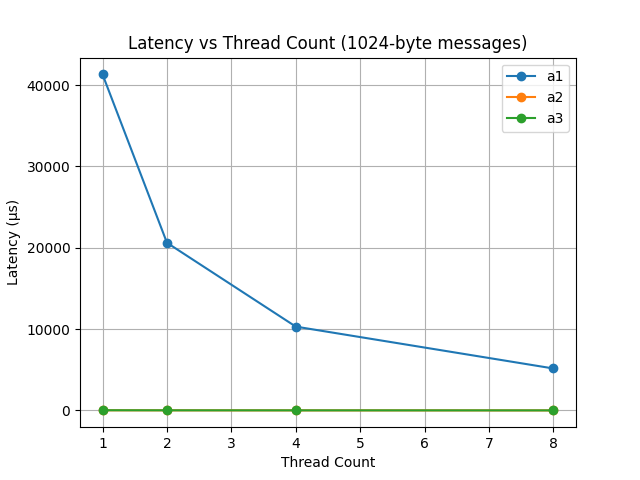
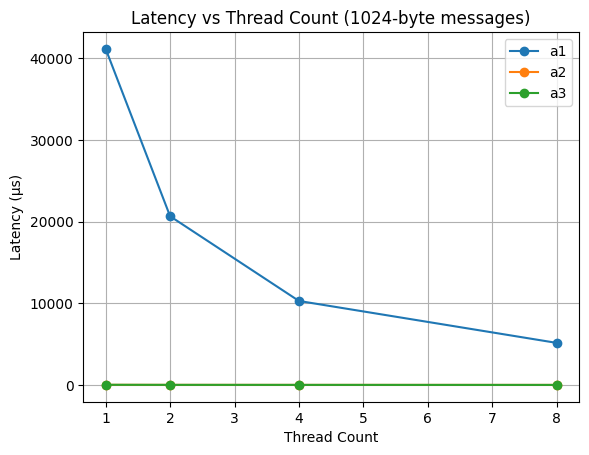
Final Plots

diff --git a/MT25035_Part_D_Plots.py b/MT25035_Part_D_Plots.py
@@ -1,5 +1,8 @@
 # MT25035_Part_D_Plots.py
 
+import matplotlib
+matplotlib.use("Agg")  # Non-interactive backend (no GUI)
+
 import pandas as pd
 import matplotlib.pyplot as plt
 
@@ -16,11 +19,18 @@ numeric_cols = [
 ]
 df[numeric_cols] = df[numeric_cols].apply(pd.to_numeric)
 
-# Bytes per message (8 fields)
+# -----------------------------
+# Derived metrics
+# -----------------------------
+# Message size = 8 fields
 df["bytes_per_msg"] = df["field_size"] * 8
-df["cycles_per_byte"] = df["cycles"] / (
-    df["throughput_gbps"] * 1e9 * 10 / 8
-)
+
+# Total bytes transferred = throughput * duration
+DURATION = 10  # seconds (same as experiment)
+df["bytes_transferred"] = (df["throughput_gbps"] * 1e9 / 8) * DURATION
+
+# Cycles per byte
+df["cycles_per_byte"] = df["cycles"] / df["bytes_transferred"]
 
 # -----------------------------
 # Plot 1: Throughput vs Message Size
@@ -36,8 +46,8 @@ plt.title("Throughput vs Message Size (8 threads)")
 plt.legend()
 plt.grid(True)
 plt.xscale("log")
-plt.savefig("throughput_vs_message_size.png")
-plt.show()
+plt.savefig("throughput_vs_message_size.png", bbox_inches="tight")
+plt.close()
 
 # -----------------------------
 # Plot 2: Latency vs Thread Count
@@ -52,8 +62,8 @@ plt.ylabel("Latency (µs)")
 plt.title("Latency vs Thread Count (1024-byte messages)")
 plt.legend()
 plt.grid(True)
-plt.savefig("latency_vs_threads.png")
-plt.show()
+plt.savefig("latency_vs_threads.png", bbox_inches="tight")
+plt.close()
 
 # -----------------------------
 # Plot 3: Cache Misses vs Message Size
@@ -70,11 +80,11 @@ plt.legend()
 plt.grid(True)
 plt.xscale("log")
 plt.yscale("log")
-plt.savefig("cache_misses_vs_message_size.png")
-plt.show()
+plt.savefig("cache_misses_vs_message_size.png", bbox_inches="tight")
+plt.close()
 
 # -----------------------------
-# Plot 4: CPU Cycles per Byte Transferred
+# Plot 4: CPU Cycles per Byte
 # -----------------------------
 plt.figure()
 for impl in ["a1", "a2", "a3"]:
@@ -87,5 +97,5 @@ plt.title("CPU Cycles per Byte vs Message Size (8 threads)")
 plt.legend()
 plt.grid(True)
 plt.xscale("log")
-plt.savefig("cycles_per_byte_vs_message_size.png")
-plt.show()
+plt.savefig("cycles_per_byte_vs_message_size.png", bbox_inches="tight")
+plt.close()
